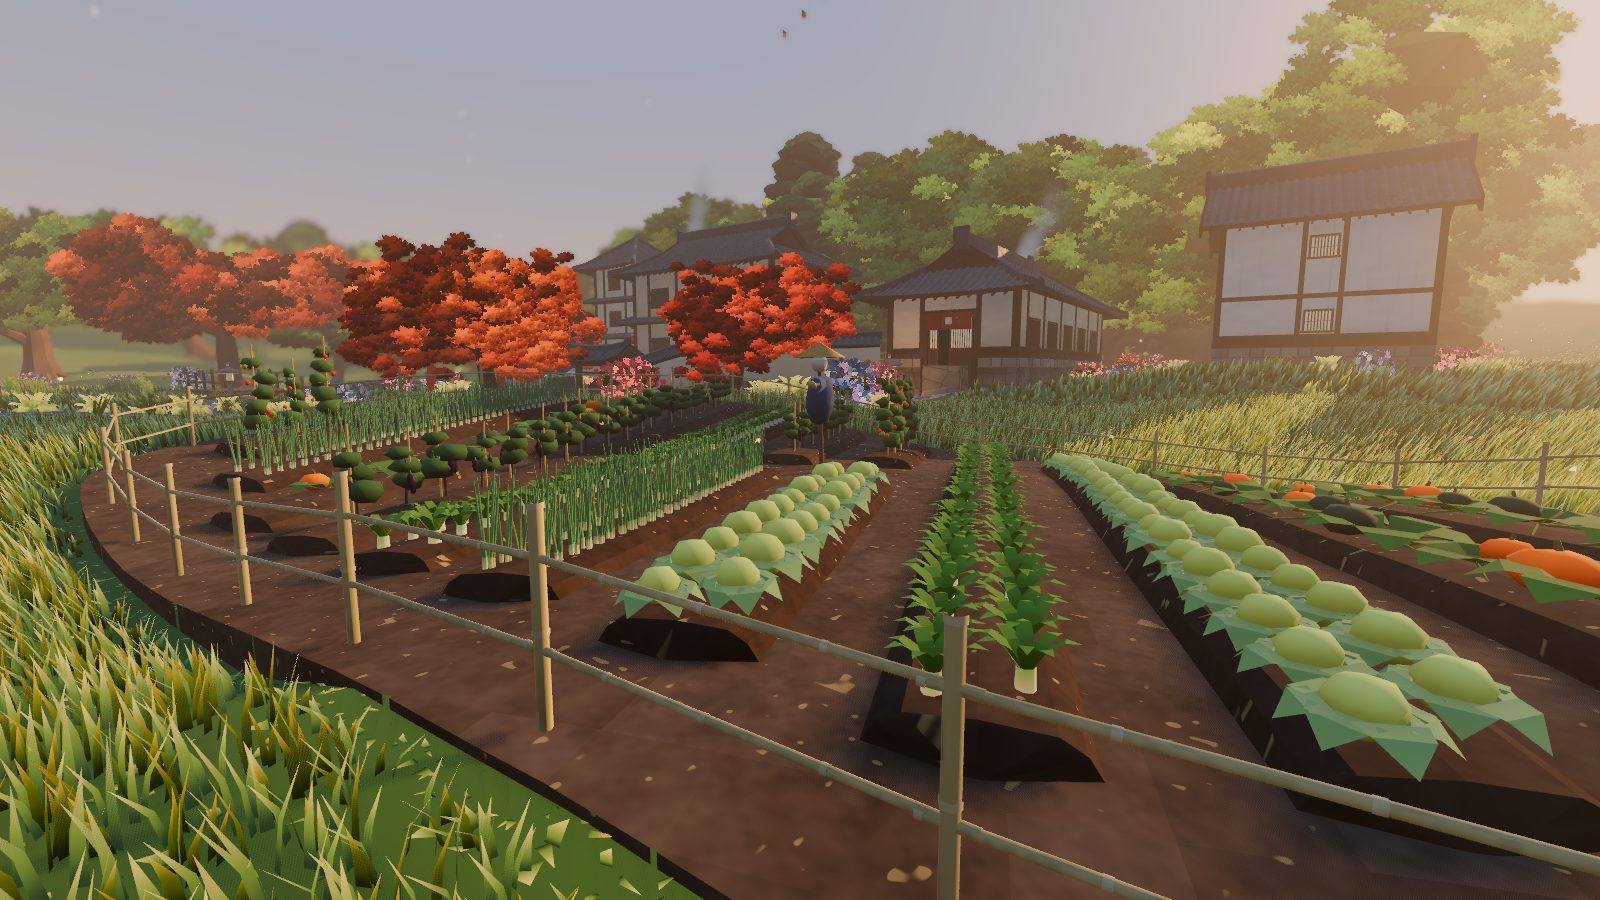
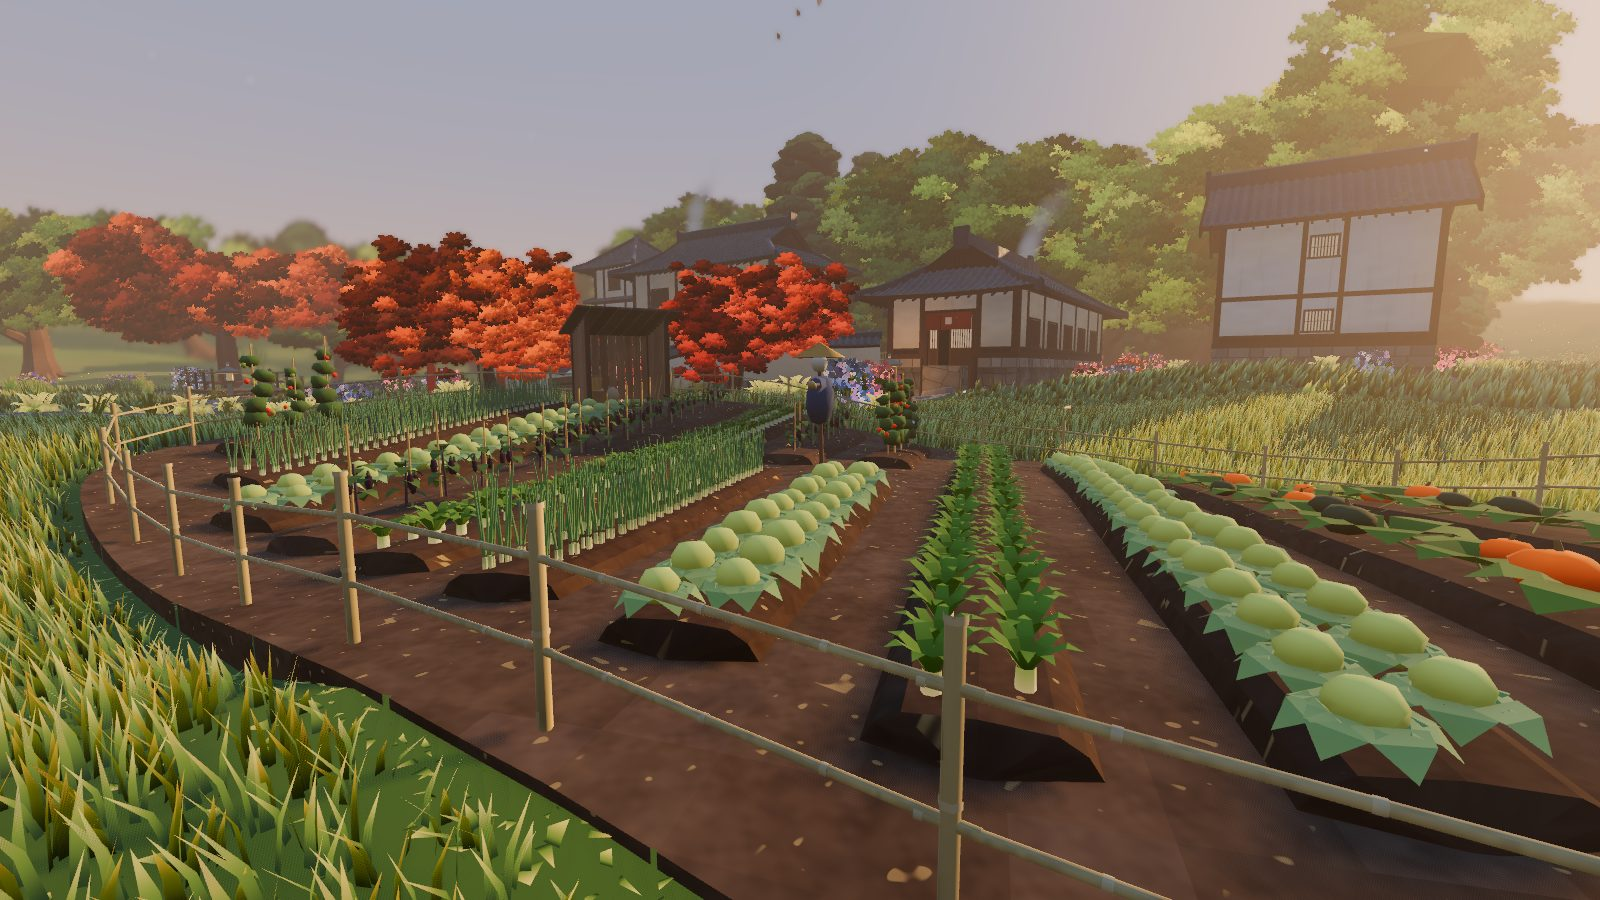
Ponton depuis une terrasse, cabane à outils du potager, finitions
- Étang : une terrasse au bord de l'eau avance sur l'étang par une jetée de
  planches sur pilotis, poteaux d'amarrage au bout (marche si besoin).
- Potager : cabane à outils en appentis près de l'entrée (houe, râteau,
  panier, sacs, seau), ouverte vers les planches.
- Aubergines en vraies feuilles, eau des rizières plus claire, flancs des
  planches adoucis.
- Tests (371), captures.

Claude-Session: https://claude.ai/code/session_01UZmnUiUaB1wdkATbE96Ra9

diff --git a/README.md b/README.md
@@ -138,6 +138,8 @@ constructions exposent (points `smoke` et `lights`, posés sur le relief) :
 
 ![L'étang du hameau : nénuphars, iris, rochers moussus et ponton](docs/captures/etang_rive.jpg)
 
+![Le ponton : la terrasse du hameau avance sur l'étang](docs/captures/etang_ponton.jpg)
+
 ![Une source chaude tracée à la souris : eau laiteuse, cercle de pierres sombres et vapeur](docs/captures/etang_onsen.jpg)
 
 - **Étang** (touche **J**) : maintiens le clic et fais le tour d'une zone. Pendant le tracé, l'encre montre déjà la rive arrondie. Relâche : le sol se creuse et l'eau apparaît. **V** change la sorte : **étang de jardin**, **source chaude** (onsen) ou **mare sauvage**.
@@ -146,6 +148,7 @@ constructions exposent (points `smoke` et `lights`, posés sur le relief) :
 - **L'eau** : couleur selon la vraie profondeur (on voit le fond près du bord, l'eau se ferme au milieu), réfraction, reflets du ciel au ras de l'eau, rides poussées par le vent, reflets dansants sur le fond, liseré clair contre la rive.
 - **Rives** : groupes de rochers moussus posés sur les avancées de la berge (ishi-gumi), une plage de galets clairs (suhama), des pierres qui bordent le reste avec des trous. Le fond et la berge mouillée changent de couleur.
 - **Vie** : iris et roseaux les pieds dans l'eau, nénuphars et lotus roses ou blancs, hortensias et azalées sur la berge, fougères au pied des rochers, et des **carpes koï** (kohaku, ogon, showa) qui tournent lentement sous la surface.
+- **Ponton** : une terrasse posée au bord de l'étang avance sur l'eau par une jetée de planches sur pilotis, avec deux poteaux d'amarrage au bout (et une marche si la terrasse est plus haute).
 - **Ponts** : un chemin qui traverse l'eau reçoit tout seul des **pierres de gué** (passage court ou coin de l'étang), un **pont arqué** en bois avec garde-corps et giboshi (bras d'eau), ou une **passerelle en zigzag** (yatsuhashi) sur une longue traversée. Le gravier noyé du chemin disparaît.
 - **Source chaude** : eau laiteuse vert d'eau, cernée de rochers sombres, vapeur qui monte. **Mare sauvage** : eau plus sombre, roseaux, beaucoup de nénuphars, peu de pierres.
 - Les voisins s'adaptent : pas d'herbe dans l'eau, ni plante du jardin, ni arbre de forêt ; les structures posées autour se reposent sur la berge creusée.
@@ -158,11 +161,13 @@ constructions exposent (points `smoke` et `lights`, posés sur le relief) :
 
 ![Potager du hameau : planches de choux, daikon, negi, aubergines et potirons, clôture de bambou](docs/captures/champ_potager.jpg)
 
+![La cabane à outils du potager, ouverte sur les planches d'aubergines](docs/captures/champ_cabane.jpg)
+
 ![Champ de thé : longues haies arrondies qui suivent la pente](docs/captures/champ_the.jpg)
 
 - **Champ** (touche **H**) : maintiens le clic et fais le tour d'une zone, relâche. **V** change la sorte : **potager**, **rizière** ou **champ de thé**.
 - **Rangs qui suivent la pente** : sur une pente, les rangs suivent les courbes de niveau ; sur le plat, l'axe long du champ.
-- **Potager** : des planches de terre surélevées, chacune avec sa culture en lignes (choux, daikon, negi, aubergines et tomates sur tuteurs, potirons), une clôture basse de bambou qui s'ouvre vers le chemin le plus proche (ou là où un chemin la traverse) et un épouvantail en kimono et chapeau de paille.
+- **Potager** : des planches de terre surélevées, chacune avec sa culture en lignes (choux, daikon, negi, aubergines et tomates sur tuteurs, potirons), une clôture basse de bambou qui s'ouvre vers le chemin le plus proche (ou là où un chemin la traverse) un épouvantail en kimono et chapeau de paille et, dans les grands potagers, une cabane à outils en planches près de l'entrée (houe, râteau, panier, sacs, seau).
 - **Rizière** : la pente est taillée en **terrasses de niveau** (tanada), retenues par des murets de pierres sèches. Chaque terrasse est une nappe d'eau peu profonde qui renvoie le ciel, bordée de levées herbues ; d'autres levées la recoupent en rizières. Le riz est repiqué en lignes. Sur le plat, un damier de rizières.
 - **Thé** : de longues haies taillées en arrondi, feuillage serré avec ses jeunes pousses claires, de la paille entre les rangs et des ventilateurs antigel sur leurs mâts.
 - **Le sol** est abaissé sous le champ (déblai des terrasses compris) et la terre du champ est posée par-dessus ; ses bords descendent en talus ou en muret. L'herbe, les forêts, les massifs et le jardin automatique évitent les champs ; un chemin qui traverse un potager passe entre les planches.
@@ -365,7 +370,7 @@ add_child(garden)
 
 ## Tests
 
-Les tests du cœur de l'addon (367 vérifications, dont les champs (planches, terrasses, haies de thé), dont les étangs (forme, creusement, ponts), dont les arbres d'Onsen et les forêts, dont les portails et les terrasses, dont les règles du jardin, dont le squelette droit sur 900 contours aléatoires et le toit irimoya sur 400) tournent sans affichage :
+Les tests du cœur de l'addon (371 vérifications, dont les champs (planches, terrasses, haies de thé), dont les étangs (forme, creusement, ponts), dont les arbres d'Onsen et les forêts, dont les portails et les terrasses, dont les règles du jardin, dont le squelette droit sur 900 contours aléatoires et le toit irimoya sur 400) tournent sans affichage :
 
 ```
 godot --headless --path . -s tests/run_core_tests.gd
